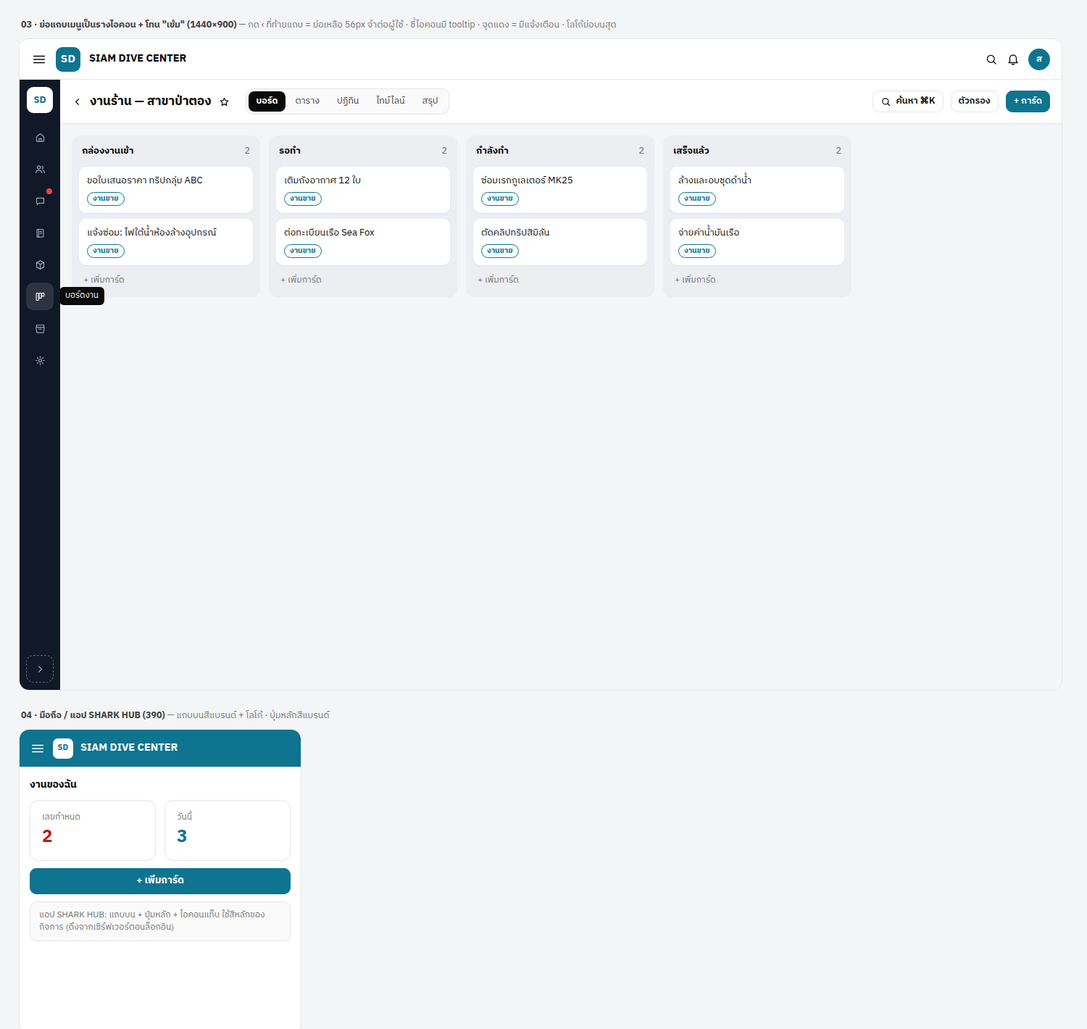
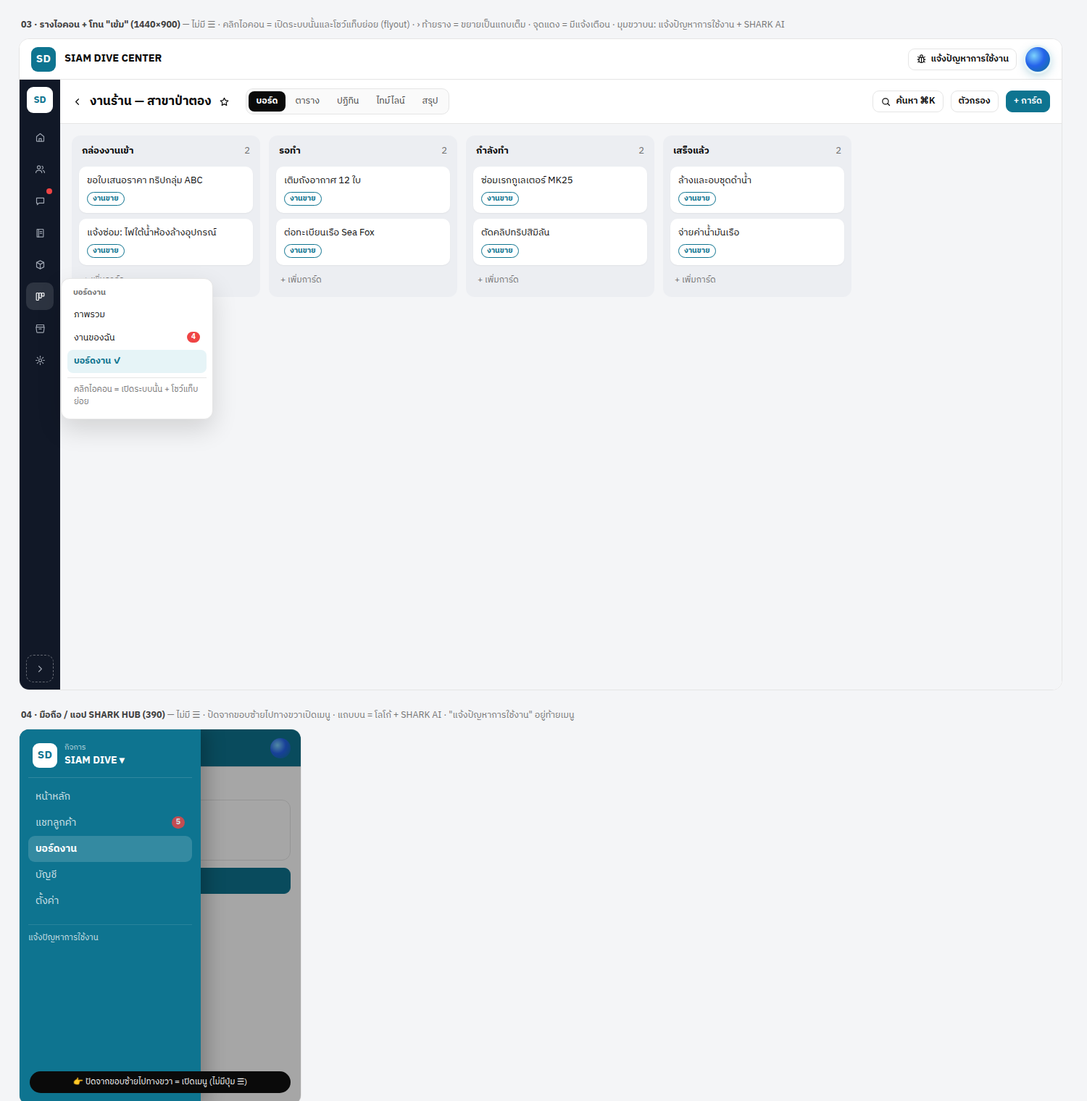
design(branding): รอบ 2 ตามเจ้าของ — มุมขวาบน 2 ปุ่ม (แจ้งปัญหา + SHARK AI) · ไม่มี ☰ · รางไอคอนคลิกเปิดระบบ+แท็บย่อย · มือถือปัดขวาเปิดเมนู

diff --git a/ledger/design-branding/03-rail-dark-mobile.html b/ledger/design-branding/03-rail-dark-mobile.html
@@ -13,6 +13,7 @@ svg.i.sm{width:15px;height:15px;stroke-width:1.9}svg.i.lg{width:22px;height:22px
 .top .sp{flex:1}.top .brand{font-size:14.5px;font-weight:700;color:var(--ink)}
 .logo{width:34px;height:34px;border-radius:9px;display:grid;place-items:center;background:var(--brand);color:var(--brand-fg);font-weight:800;font-size:15px;letter-spacing:.02em;overflow:hidden}
 .logo.img{background:#fff;border:1px solid var(--line)}
+.orb{width:34px;height:34px;border-radius:50%;flex:none;background:radial-gradient(circle at 35% 35%,#7dd3fc 0,#2563eb 45%,#0e7490 100%);box-shadow:0 0 0 3px #e6f4f7,0 4px 14px rgba(14,116,144,.35)}
 .av{width:30px;height:30px;border-radius:50%;background:var(--brand);color:var(--brand-fg);display:grid;place-items:center;font-size:12.5px;font-weight:700}
 .appbody{display:flex;align-items:stretch;min-height:0;flex:1}
 .nav{width:288px;flex:none;background:var(--nav-bg);color:var(--nav-fg);padding:14px 12px;display:flex;flex-direction:column;gap:2px;border-right:1px solid rgba(0,0,0,.06)}
@@ -72,5 +73,18 @@ h1{font-size:20px;font-weight:700}.sub{font-size:13px;color:var(--mut)}
 .tabs i{font-style:normal;padding:5px 11px;border-radius:8px;font-size:12.5px;color:var(--ink2)}.tabs i.on{background:var(--ink);color:#fff;font-weight:700}
 .mtop{height:52px;display:flex;align-items:center;gap:10px;padding:0 14px;border-bottom:1px solid var(--line);background:var(--nav-bg);color:var(--nav-fg)}
 .mtop .brand{font-weight:700;font-size:14.5px}
-</style></head><body><svg style="display:none"><symbol id="i-menu" viewBox="0 0 24 24"><path d="M4 7h16M4 12h16M4 17h16"/></symbol><symbol id="i-search" viewBox="0 0 24 24"><circle cx="11" cy="11" r="6.5"/><path d="m16 16 4 4"/></symbol><symbol id="i-home" viewBox="0 0 24 24"><path d="M4 10.5 12 4l8 6.5V20a1 1 0 0 1-1 1H5a1 1 0 0 1-1-1Z"/><path d="M9.5 21v-6h5v6"/></symbol><symbol id="i-users" viewBox="0 0 24 24"><circle cx="9" cy="8" r="3.4"/><path d="M2.5 20c0-3.6 2.9-5.5 6.5-5.5s6.5 1.9 6.5 5.5M16 5.4a3.4 3.4 0 0 1 0 6.4M18 14.8c2.2.6 3.5 2.3 3.5 5.2"/></symbol><symbol id="i-box" viewBox="0 0 24 24"><path d="M12 3 4 7v10l8 4 8-4V7Z"/><path d="m4 7 8 4 8-4M12 11v10"/></symbol><symbol id="i-book" viewBox="0 0 24 24"><path d="M5 4h13a1 1 0 0 1 1 1v15a1 1 0 0 1-1 1H5Z"/><path d="M8.5 4v17M11.5 9h4M11.5 13h4"/></symbol><symbol id="i-shop" viewBox="0 0 24 24"><path d="M4 9V4h16v5"/><path d="M3 9h18l-1.4 11a1 1 0 0 1-1 .9H5.4a1 1 0 0 1-1-.9Z"/><path d="M9.5 13h5"/></symbol><symbol id="i-mail" viewBox="0 0 24 24"><rect x="3" y="5.5" width="18" height="13" rx="2.2"/><path d="m3.6 7 8.4 6 8.4-6"/></symbol><symbol id="i-chat" viewBox="0 0 24 24"><path d="M4 5.5h16v11H9.5L5.5 20v-3.5H4Z"/></symbol><symbol id="i-bell" viewBox="0 0 24 24"><path d="M18 15.5V10a6 6 0 1 0-12 0v5.5L4 18h16Z"/><path d="M10 21h4"/></symbol><symbol id="i-gear" viewBox="0 0 24 24"><circle cx="12" cy="12" r="3.2"/><path d="M12 2.5v3M12 18.5v3M2.5 12h3M18.5 12h3M5.3 5.3l2.1 2.1M16.6 16.6l2.1 2.1M5.3 18.7l2.1-2.1M16.6 7.4l2.1-2.1"/></symbol><symbol id="i-kan" viewBox="0 0 24 24"><rect x="3.5" y="4" width="5" height="16" rx="1.2"/><rect x="9.5" y="4" width="5" height="11" rx="1.2"/><rect x="15.5" y="4" width="5" height="7" rx="1.2"/></symbol><symbol id="i-chev" viewBox="0 0 24 24"><path d="m9 6 6 6-6 6"/></symbol><symbol id="i-chevl" viewBox="0 0 24 24"><path d="m15 6-6 6 6 6"/></symbol><symbol id="i-up" viewBox="0 0 24 24"><path d="M12 17V5M7.5 9.5 12 5l4.5 4.5M4 17v3h16v-3"/></symbol><symbol id="i-check" viewBox="0 0 24 24"><path d="m5 12.5 4.5 4.5L19 7.5"/></symbol><symbol id="i-star" viewBox="0 0 24 24"><path d="m12 3.6 2.6 5.4 5.9.8-4.3 4.1 1 5.9-5.2-2.8-5.2 2.8 1-5.9L3.5 9.8l5.9-.8Z"/></symbol></svg><div class="wrap"><div><p class="cap">03 · ย่อแถบเมนูเป็นรางไอคอน + โทน "เข้ม" (1440×900) <span>— กด ‹ ที่ท้ายแถบ = ย่อเหลือ 56px จำต่อผู้ใช้ · ชี้ไอคอนมี tooltip · จุดแดง = มีแจ้งเตือน · โลโก้ย่อบนสุด</span></p><div class="frame" style="height:900px"><div class="top"><svg class="i lg"><use href="#i-menu"/></svg><div class="logo">SD</div><span class="brand">SIAM DIVE CENTER</span><span class="sp"></span><svg class="i"><use href="#i-search"/></svg><svg class="i"><use href="#i-bell"/></svg><div class="av">ส</div></div><div class="appbody"><div class="rail dark" style="--nav-bg:#111827;--nav-fg:#f9fafb;--nav-fg2:#9ca3af;--nav-on:rgba(255,255,255,.12)"><div class="lg">SD</div><div class="ri "><svg class="i sm"><use href="#i-home"/></svg></div><div class="ri "><svg class="i sm"><use href="#i-users"/></svg></div><div class="ri "><svg class="i sm"><use href="#i-chat"/></svg><span style=position:absolute;top:2px;right:2px;width:8px;height:8px;border-radius:50%;background:#ef4444></span></div><div class="ri "><svg class="i sm"><use href="#i-book"/></svg></div><div class="ri "><svg class="i sm"><use href="#i-box"/></svg></div><div class="ri on"><svg class="i sm"><use href="#i-kan"/></svg><span class=tip>บอร์ดงาน</span></div><div class="ri "><svg class="i sm"><use href="#i-shop"/></svg></div><div class="ri "><svg class="i sm"><use href="#i-gear"/></svg></div><div class="exp"><svg class="i sm"><use href="#i-chev"/></svg></div></div><div class="mod"><div class="bh"><svg class="i sm"><use href="#i-chevl"/></svg><h2>งานร้าน — สาขาป่าตอง</h2><svg class="i sm"><use href="#i-star"/></svg><div class="tabs"><i class="on">บอร์ด</i><i>ตาราง</i><i>ปฏิทิน</i><i>ไทม์ไลน์</i><i>สรุป</i></div><span style="flex:1"></span><span class="btn sm"><svg class="i sm"><use href="#i-search"/></svg> ค้นหา ⌘K</span><span class="btn sm">ตัวกรอง</span><span class="btn p sm">+ การ์ด</span></div><div class="kb"><div class="kl"><h4>กล่องงานเข้า<span style="color:var(--mut);font-weight:400">2</span></h4><div class="kc">ขอใบเสนอราคา ทริปกลุ่ม ABC<br><span class="tg2" style="color:var(--brand);border-color:var(--brand)">งานขาย</span></div><div class="kc">แจ้งซ่อม: ไฟใต้น้ำห้องล้างอุปกรณ์<br><span class="tg2" style="color:var(--brand);border-color:var(--brand)">งานขาย</span></div><div style="font-size:12px;color:var(--mut);padding:4px 6px">+ เพิ่มการ์ด</div></div><div class="kl"><h4>รอทำ<span style="color:var(--mut);font-weight:400">2</span></h4><div class="kc">เติมถังอากาศ 12 ใบ<br><span class="tg2" style="color:var(--brand);border-color:var(--brand)">งานขาย</span></div><div class="kc">ต่อทะเบียนเรือ Sea Fox<br><span class="tg2" style="color:var(--brand);border-color:var(--brand)">งานขาย</span></div><div style="font-size:12px;color:var(--mut);padding:4px 6px">+ เพิ่มการ์ด</div></div><div class="kl"><h4>กำลังทำ<span style="color:var(--mut);font-weight:400">2</span></h4><div class="kc">ซ่อมเรกกูเลเตอร์ MK25<br><span class="tg2" style="color:var(--brand);border-color:var(--brand)">งานขาย</span></div><div class="kc">ตัดคลิปทริปสิมิลัน<br><span class="tg2" style="color:var(--brand);border-color:var(--brand)">งานขาย</span></div><div style="font-size:12px;color:var(--mut);padding:4px 6px">+ เพิ่มการ์ด</div></div><div class="kl"><h4>เสร็จแล้ว<span style="color:var(--mut);font-weight:400">2</span></h4><div class="kc">ล้างและอบชุดดำน้ำ<br><span class="tg2" style="color:var(--brand);border-color:var(--brand)">งานขาย</span></div><div class="kc">จ่ายค่าน้ำมันเรือ<br><span class="tg2" style="color:var(--brand);border-color:var(--brand)">งานขาย</span></div><div style="font-size:12px;color:var(--mut);padding:4px 6px">+ เพิ่มการ์ด</div></div></div></div></div></div></div>
-<div><p class="cap">04 · มือถือ / แอป SHARK HUB (390) <span>— แถบบนสีแบรนด์ + โลโก้ · ปุ่มหลักสีแบรนด์</span></p><div class="frame m" style="height:420px"><div class="mtop"><svg class="i lg"><use href="#i-menu"/></svg><div class="logo" style="width:28px;height:28px;font-size:11px;border-radius:7px;background:#fff;color:var(--brand)">SD</div><span class="brand">SIAM DIVE CENTER</span></div><div style="padding:14px;display:flex;flex-direction:column;gap:10px"><div style="font-weight:700">งานของฉัน</div><div class="g4" style="grid-template-columns:1fr 1fr"><div class="stat"><div class="l">เลยกำหนด</div><div class="v" style="color:#b91c1c">2</div></div><div class="stat"><div class="l">วันนี้</div><div class="v" style="color:var(--brand)">3</div></div></div><span class="btn p" style="justify-content:center">+ เพิ่มการ์ด</span><div class="note">แอป SHARK HUB: แถบบน + ปุ่มหลัก + ไอคอนแท็บ ใช้สีหลักของกิจการ (ดึงจากเซิร์ฟเวอร์ตอนล็อกอิน)</div></div></div></div></div></body></html>
+</style></head><body><svg style="display:none"><symbol id="i-bug" viewBox="0 0 24 24"><path d="M9 8V6a3 3 0 0 1 6 0v2"/><rect x="6.5" y="8" width="11" height="12" rx="5.5"/><path d="M3.5 13h3M17.5 13h3M4.5 19l2.5-2M19.5 19 17 17M4.5 7l2.5 2M19.5 7 17 9M12 8v12"/></symbol><symbol id="i-menu" viewBox="0 0 24 24"><path d="M4 7h16M4 12h16M4 17h16"/></symbol><symbol id="i-search" viewBox="0 0 24 24"><circle cx="11" cy="11" r="6.5"/><path d="m16 16 4 4"/></symbol><symbol id="i-home" viewBox="0 0 24 24"><path d="M4 10.5 12 4l8 6.5V20a1 1 0 0 1-1 1H5a1 1 0 0 1-1-1Z"/><path d="M9.5 21v-6h5v6"/></symbol><symbol id="i-users" viewBox="0 0 24 24"><circle cx="9" cy="8" r="3.4"/><path d="M2.5 20c0-3.6 2.9-5.5 6.5-5.5s6.5 1.9 6.5 5.5M16 5.4a3.4 3.4 0 0 1 0 6.4M18 14.8c2.2.6 3.5 2.3 3.5 5.2"/></symbol><symbol id="i-box" viewBox="0 0 24 24"><path d="M12 3 4 7v10l8 4 8-4V7Z"/><path d="m4 7 8 4 8-4M12 11v10"/></symbol><symbol id="i-book" viewBox="0 0 24 24"><path d="M5 4h13a1 1 0 0 1 1 1v15a1 1 0 0 1-1 1H5Z"/><path d="M8.5 4v17M11.5 9h4M11.5 13h4"/></symbol><symbol id="i-shop" viewBox="0 0 24 24"><path d="M4 9V4h16v5"/><path d="M3 9h18l-1.4 11a1 1 0 0 1-1 .9H5.4a1 1 0 0 1-1-.9Z"/><path d="M9.5 13h5"/></symbol><symbol id="i-mail" viewBox="0 0 24 24"><rect x="3" y="5.5" width="18" height="13" rx="2.2"/><path d="m3.6 7 8.4 6 8.4-6"/></symbol><symbol id="i-chat" viewBox="0 0 24 24"><path d="M4 5.5h16v11H9.5L5.5 20v-3.5H4Z"/></symbol><symbol id="i-bell" viewBox="0 0 24 24"><path d="M18 15.5V10a6 6 0 1 0-12 0v5.5L4 18h16Z"/><path d="M10 21h4"/></symbol><symbol id="i-gear" viewBox="0 0 24 24"><circle cx="12" cy="12" r="3.2"/><path d="M12 2.5v3M12 18.5v3M2.5 12h3M18.5 12h3M5.3 5.3l2.1 2.1M16.6 16.6l2.1 2.1M5.3 18.7l2.1-2.1M16.6 7.4l2.1-2.1"/></symbol><symbol id="i-kan" viewBox="0 0 24 24"><rect x="3.5" y="4" width="5" height="16" rx="1.2"/><rect x="9.5" y="4" width="5" height="11" rx="1.2"/><rect x="15.5" y="4" width="5" height="7" rx="1.2"/></symbol><symbol id="i-chev" viewBox="0 0 24 24"><path d="m9 6 6 6-6 6"/></symbol><symbol id="i-chevl" viewBox="0 0 24 24"><path d="m15 6-6 6 6 6"/></symbol><symbol id="i-up" viewBox="0 0 24 24"><path d="M12 17V5M7.5 9.5 12 5l4.5 4.5M4 17v3h16v-3"/></symbol><symbol id="i-check" viewBox="0 0 24 24"><path d="m5 12.5 4.5 4.5L19 7.5"/></symbol><symbol id="i-star" viewBox="0 0 24 24"><path d="m12 3.6 2.6 5.4 5.9.8-4.3 4.1 1 5.9-5.2-2.8-5.2 2.8 1-5.9L3.5 9.8l5.9-.8Z"/></symbol></svg><div class="wrap"><div><p class="cap">03 · รางไอคอน + โทน "เข้ม" (1440×900) <span>— ไม่มี ☰ · คลิกไอคอน = เปิดระบบนั้นและโชว์แท็บย่อย (flyout) · › ท้ายราง = ขยายเป็นแถบเต็ม · จุดแดง = มีแจ้งเตือน · มุมขวาบน: แจ้งปัญหาการใช้งาน + SHARK AI</span></p><div class="frame" style="height:900px"><div class="top"><div class="logo">SD</div><span class="brand">SIAM DIVE CENTER</span><span class="sp"></span>
+<span class="btn sm" style="gap:6px"><svg class="i sm"><use href="#i-bug"/></svg> แจ้งปัญหาการใช้งาน</span>
+<span class="orb" title="SHARK AI"></span></div><div class="appbody"><div class="rail dark" style="--nav-bg:#111827;--nav-fg:#f9fafb;--nav-fg2:#9ca3af;--nav-on:rgba(255,255,255,.12)"><div class="lg">SD</div><div class="ri "><svg class="i sm"><use href="#i-home"/></svg></div><div class="ri "><svg class="i sm"><use href="#i-users"/></svg></div><div class="ri "><svg class="i sm"><use href="#i-chat"/></svg><span style=position:absolute;top:2px;right:2px;width:8px;height:8px;border-radius:50%;background:#ef4444></span></div><div class="ri "><svg class="i sm"><use href="#i-book"/></svg></div><div class="ri "><svg class="i sm"><use href="#i-box"/></svg></div><div class="ri on"><svg class="i sm"><use href="#i-kan"/></svg><div style="position:absolute;left:48px;top:-6px;width:210px;background:#fff;color:#0a0a0a;border:1px solid #e5e5e5;border-radius:12px;box-shadow:0 14px 34px rgba(10,10,10,.14);padding:8px;z-index:20;text-align:left">
+<div style="font-size:11px;color:#737373;padding:4px 8px 6px;font-weight:700">บอร์ดงาน</div>
+<div style="padding:7px 9px;border-radius:8px;font-size:12.5px">ภาพรวม</div>
+<div style="padding:7px 9px;border-radius:8px;font-size:12.5px">งานของฉัน <span style="float:right;background:#ef4444;color:#fff;font-size:10px;font-weight:700;border-radius:99px;padding:0 6px">4</span></div>
+<div style="padding:7px 9px;border-radius:8px;font-size:12.5px;background:#e6f4f7;color:#0E7490;font-weight:700">บอร์ดงาน ✓</div>
+<div style="border-top:1px solid #e5e5e5;margin:6px 0 2px"></div><div style="padding:6px 9px;font-size:11.5px;color:#737373">คลิกไอคอน = เปิดระบบนั้น + โชว์แท็บย่อย</div></div></div><div class="ri "><svg class="i sm"><use href="#i-shop"/></svg></div><div class="ri "><svg class="i sm"><use href="#i-gear"/></svg></div><div class="exp"><svg class="i sm"><use href="#i-chev"/></svg></div></div><div class="mod"><div class="bh"><svg class="i sm"><use href="#i-chevl"/></svg><h2>งานร้าน — สาขาป่าตอง</h2><svg class="i sm"><use href="#i-star"/></svg><div class="tabs"><i class="on">บอร์ด</i><i>ตาราง</i><i>ปฏิทิน</i><i>ไทม์ไลน์</i><i>สรุป</i></div><span style="flex:1"></span><span class="btn sm"><svg class="i sm"><use href="#i-search"/></svg> ค้นหา ⌘K</span><span class="btn sm">ตัวกรอง</span><span class="btn p sm">+ การ์ด</span></div><div class="kb"><div class="kl"><h4>กล่องงานเข้า<span style="color:var(--mut);font-weight:400">2</span></h4><div class="kc">ขอใบเสนอราคา ทริปกลุ่ม ABC<br><span class="tg2" style="color:var(--brand);border-color:var(--brand)">งานขาย</span></div><div class="kc">แจ้งซ่อม: ไฟใต้น้ำห้องล้างอุปกรณ์<br><span class="tg2" style="color:var(--brand);border-color:var(--brand)">งานขาย</span></div><div style="font-size:12px;color:var(--mut);padding:4px 6px">+ เพิ่มการ์ด</div></div><div class="kl"><h4>รอทำ<span style="color:var(--mut);font-weight:400">2</span></h4><div class="kc">เติมถังอากาศ 12 ใบ<br><span class="tg2" style="color:var(--brand);border-color:var(--brand)">งานขาย</span></div><div class="kc">ต่อทะเบียนเรือ Sea Fox<br><span class="tg2" style="color:var(--brand);border-color:var(--brand)">งานขาย</span></div><div style="font-size:12px;color:var(--mut);padding:4px 6px">+ เพิ่มการ์ด</div></div><div class="kl"><h4>กำลังทำ<span style="color:var(--mut);font-weight:400">2</span></h4><div class="kc">ซ่อมเรกกูเลเตอร์ MK25<br><span class="tg2" style="color:var(--brand);border-color:var(--brand)">งานขาย</span></div><div class="kc">ตัดคลิปทริปสิมิลัน<br><span class="tg2" style="color:var(--brand);border-color:var(--brand)">งานขาย</span></div><div style="font-size:12px;color:var(--mut);padding:4px 6px">+ เพิ่มการ์ด</div></div><div class="kl"><h4>เสร็จแล้ว<span style="color:var(--mut);font-weight:400">2</span></h4><div class="kc">ล้างและอบชุดดำน้ำ<br><span class="tg2" style="color:var(--brand);border-color:var(--brand)">งานขาย</span></div><div class="kc">จ่ายค่าน้ำมันเรือ<br><span class="tg2" style="color:var(--brand);border-color:var(--brand)">งานขาย</span></div><div style="font-size:12px;color:var(--mut);padding:4px 6px">+ เพิ่มการ์ด</div></div></div></div></div></div></div>
+<div><p class="cap">04 · มือถือ / แอป SHARK HUB (390) <span>— ไม่มี ☰ · ปัดจากขอบซ้ายไปทางขวาเปิดเมนู · แถบบน = โลโก้ + SHARK AI · "แจ้งปัญหาการใช้งาน" อยู่ท้ายเมนู</span></p><div class="frame m" style="height:520px;position:relative"><div class="mtop"><div class="logo" style="width:28px;height:28px;font-size:11px;border-radius:7px;background:#fff;color:var(--brand)">SD</div><span class="brand">SIAM DIVE CENTER</span><span class="sp" style="flex:1"></span><span class="orb" style="width:28px;height:28px;box-shadow:none"></span></div>
+<div style="padding:14px;display:flex;flex-direction:column;gap:10px"><div style="font-weight:700">งานของฉัน</div><div class="g4" style="grid-template-columns:1fr 1fr"><div class="stat"><div class="l">เลยกำหนด</div><div class="v" style="color:#b91c1c">2</div></div><div class="stat"><div class="l">วันนี้</div><div class="v" style="color:var(--brand)">3</div></div></div><span class="btn p" style="justify-content:center">+ เพิ่มการ์ด</span></div>
+<div style="position:absolute;inset:0;background:rgba(0,0,0,.35)"></div>
+<div style="position:absolute;left:0;top:0;bottom:0;width:250px;background:var(--nav-bg);color:var(--nav-fg);padding:14px 12px;box-shadow:8px 0 24px rgba(0,0,0,.25)"><div class="ten" style="display:flex;gap:10px;align-items:center;padding:4px 6px 12px;border-bottom:1px solid rgba(255,255,255,.14);margin-bottom:8px"><div class="logo" style="background:#fff;color:var(--brand)">SD</div><div><div style="font-size:10.5px;opacity:.7">กิจการ</div><div style="font-weight:700">SIAM DIVE ▾</div></div></div>
+<div class="it" style="display:flex;gap:10px;align-items:center;height:36px;padding:0 10px;opacity:.8">หน้าหลัก</div><div class="it" style="display:flex;gap:10px;align-items:center;height:36px;padding:0 10px;opacity:.8">แชทลูกค้า <span class="bd" style="margin-left:auto;background:#ef4444;font-size:10.5px;font-weight:700;border-radius:99px;padding:1px 6px">5</span></div><div class="it on" style="display:flex;gap:10px;align-items:center;height:36px;padding:0 10px;background:rgba(255,255,255,.16);border-radius:9px;font-weight:700">บอร์ดงาน</div><div class="it" style="display:flex;gap:10px;align-items:center;height:36px;padding:0 10px;opacity:.8">บัญชี</div><div class="it" style="display:flex;gap:10px;align-items:center;height:36px;padding:0 10px;opacity:.8">ตั้งค่า</div>
+<div style="margin-top:14px;font-size:11.5px;opacity:.8;border-top:1px solid rgba(255,255,255,.14);padding-top:10px">แจ้งปัญหาการใช้งาน</div></div>
+<div style="position:absolute;left:14px;bottom:16px;right:14px;display:flex;align-items:center;justify-content:center;gap:6px;background:#0a0a0a;color:#fff;font-size:11.5px;padding:7px 10px;border-radius:99px;z-index:5">👉 ปัดจากขอบซ้ายไปทางขวา = เปิดเมนู (ไม่มีปุ่ม ☰)</div></div><span class="btn p" style="justify-content:center">+ เพิ่มการ์ด</span><div class="note">แอป SHARK HUB: แถบบน + ปุ่มหลัก + ไอคอนแท็บ ใช้สีหลักของกิจการ (ดึงจากเซิร์ฟเวอร์ตอนล็อกอิน)</div></div></div></div></div></body></html>

diff --git a/ledger/design-branding/02-shell-brand.html b/ledger/design-branding/02-shell-brand.html
@@ -13,6 +13,7 @@ svg.i.sm{width:15px;height:15px;stroke-width:1.9}svg.i.lg{width:22px;height:22px
 .top .sp{flex:1}.top .brand{font-size:14.5px;font-weight:700;color:var(--ink)}
 .logo{width:34px;height:34px;border-radius:9px;display:grid;place-items:center;background:var(--brand);color:var(--brand-fg);font-weight:800;font-size:15px;letter-spacing:.02em;overflow:hidden}
 .logo.img{background:#fff;border:1px solid var(--line)}
+.orb{width:34px;height:34px;border-radius:50%;flex:none;background:radial-gradient(circle at 35% 35%,#7dd3fc 0,#2563eb 45%,#0e7490 100%);box-shadow:0 0 0 3px #e6f4f7,0 4px 14px rgba(14,116,144,.35)}
 .av{width:30px;height:30px;border-radius:50%;background:var(--brand);color:var(--brand-fg);display:grid;place-items:center;font-size:12.5px;font-weight:700}
 .appbody{display:flex;align-items:stretch;min-height:0;flex:1}
 .nav{width:288px;flex:none;background:var(--nav-bg);color:var(--nav-fg);padding:14px 12px;display:flex;flex-direction:column;gap:2px;border-right:1px solid rgba(0,0,0,.06)}
@@ -72,5 +73,7 @@ h1{font-size:20px;font-weight:700}.sub{font-size:13px;color:var(--mut)}
 .tabs i{font-style:normal;padding:5px 11px;border-radius:8px;font-size:12.5px;color:var(--ink2)}.tabs i.on{background:var(--ink);color:#fff;font-weight:700}
 .mtop{height:52px;display:flex;align-items:center;gap:10px;padding:0 14px;border-bottom:1px solid var(--line);background:var(--nav-bg);color:var(--nav-fg)}
 .mtop .brand{font-weight:700;font-size:14.5px}
-</style></head><body><svg style="display:none"><symbol id="i-menu" viewBox="0 0 24 24"><path d="M4 7h16M4 12h16M4 17h16"/></symbol><symbol id="i-search" viewBox="0 0 24 24"><circle cx="11" cy="11" r="6.5"/><path d="m16 16 4 4"/></symbol><symbol id="i-home" viewBox="0 0 24 24"><path d="M4 10.5 12 4l8 6.5V20a1 1 0 0 1-1 1H5a1 1 0 0 1-1-1Z"/><path d="M9.5 21v-6h5v6"/></symbol><symbol id="i-users" viewBox="0 0 24 24"><circle cx="9" cy="8" r="3.4"/><path d="M2.5 20c0-3.6 2.9-5.5 6.5-5.5s6.5 1.9 6.5 5.5M16 5.4a3.4 3.4 0 0 1 0 6.4M18 14.8c2.2.6 3.5 2.3 3.5 5.2"/></symbol><symbol id="i-box" viewBox="0 0 24 24"><path d="M12 3 4 7v10l8 4 8-4V7Z"/><path d="m4 7 8 4 8-4M12 11v10"/></symbol><symbol id="i-book" viewBox="0 0 24 24"><path d="M5 4h13a1 1 0 0 1 1 1v15a1 1 0 0 1-1 1H5Z"/><path d="M8.5 4v17M11.5 9h4M11.5 13h4"/></symbol><symbol id="i-shop" viewBox="0 0 24 24"><path d="M4 9V4h16v5"/><path d="M3 9h18l-1.4 11a1 1 0 0 1-1 .9H5.4a1 1 0 0 1-1-.9Z"/><path d="M9.5 13h5"/></symbol><symbol id="i-mail" viewBox="0 0 24 24"><rect x="3" y="5.5" width="18" height="13" rx="2.2"/><path d="m3.6 7 8.4 6 8.4-6"/></symbol><symbol id="i-chat" viewBox="0 0 24 24"><path d="M4 5.5h16v11H9.5L5.5 20v-3.5H4Z"/></symbol><symbol id="i-bell" viewBox="0 0 24 24"><path d="M18 15.5V10a6 6 0 1 0-12 0v5.5L4 18h16Z"/><path d="M10 21h4"/></symbol><symbol id="i-gear" viewBox="0 0 24 24"><circle cx="12" cy="12" r="3.2"/><path d="M12 2.5v3M12 18.5v3M2.5 12h3M18.5 12h3M5.3 5.3l2.1 2.1M16.6 16.6l2.1 2.1M5.3 18.7l2.1-2.1M16.6 7.4l2.1-2.1"/></symbol><symbol id="i-kan" viewBox="0 0 24 24"><rect x="3.5" y="4" width="5" height="16" rx="1.2"/><rect x="9.5" y="4" width="5" height="11" rx="1.2"/><rect x="15.5" y="4" width="5" height="7" rx="1.2"/></symbol><symbol id="i-chev" viewBox="0 0 24 24"><path d="m9 6 6 6-6 6"/></symbol><symbol id="i-chevl" viewBox="0 0 24 24"><path d="m15 6-6 6 6 6"/></symbol><symbol id="i-up" viewBox="0 0 24 24"><path d="M12 17V5M7.5 9.5 12 5l4.5 4.5M4 17v3h16v-3"/></symbol><symbol id="i-check" viewBox="0 0 24 24"><path d="m5 12.5 4.5 4.5L19 7.5"/></symbol><symbol id="i-star" viewBox="0 0 24 24"><path d="m12 3.6 2.6 5.4 5.9.8-4.3 4.1 1 5.9-5.2-2.8-5.2 2.8 1-5.9L3.5 9.8l5.9-.8Z"/></symbol></svg><div class="wrap"><div><p class="cap">02 · โครงแอปเมื่อใช้ธีม "สีหลักของกิจการ" (1440×900) <span>— โลโก้มุมบนซ้าย · แถบเมนูซ้ายสีแบรนด์ ตัวอักษรขาวอัตโนมัติ · ปุ่มหลัก/ป้าย/รายการที่เลือกใช้สีเดียวกัน</span></p><div class="frame" style="height:900px"><div class="top"><svg class="i lg"><use href="#i-menu"/></svg><div class="logo">SD</div><span class="brand">SIAM DIVE CENTER</span><span class="sp"></span><svg class="i"><use href="#i-search"/></svg><svg class="i"><use href="#i-bell"/></svg><div class="av">ส</div></div><div class="appbody"><div class="nav "><div class="ten"><div class="logo">SD</div><div><div class="t1">กิจการ</div><div class="t2">SIAM DIVE CENTER ▾</div></div></div>
+</style></head><body><svg style="display:none"><symbol id="i-bug" viewBox="0 0 24 24"><path d="M9 8V6a3 3 0 0 1 6 0v2"/><rect x="6.5" y="8" width="11" height="12" rx="5.5"/><path d="M3.5 13h3M17.5 13h3M4.5 19l2.5-2M19.5 19 17 17M4.5 7l2.5 2M19.5 7 17 9M12 8v12"/></symbol><symbol id="i-menu" viewBox="0 0 24 24"><path d="M4 7h16M4 12h16M4 17h16"/></symbol><symbol id="i-search" viewBox="0 0 24 24"><circle cx="11" cy="11" r="6.5"/><path d="m16 16 4 4"/></symbol><symbol id="i-home" viewBox="0 0 24 24"><path d="M4 10.5 12 4l8 6.5V20a1 1 0 0 1-1 1H5a1 1 0 0 1-1-1Z"/><path d="M9.5 21v-6h5v6"/></symbol><symbol id="i-users" viewBox="0 0 24 24"><circle cx="9" cy="8" r="3.4"/><path d="M2.5 20c0-3.6 2.9-5.5 6.5-5.5s6.5 1.9 6.5 5.5M16 5.4a3.4 3.4 0 0 1 0 6.4M18 14.8c2.2.6 3.5 2.3 3.5 5.2"/></symbol><symbol id="i-box" viewBox="0 0 24 24"><path d="M12 3 4 7v10l8 4 8-4V7Z"/><path d="m4 7 8 4 8-4M12 11v10"/></symbol><symbol id="i-book" viewBox="0 0 24 24"><path d="M5 4h13a1 1 0 0 1 1 1v15a1 1 0 0 1-1 1H5Z"/><path d="M8.5 4v17M11.5 9h4M11.5 13h4"/></symbol><symbol id="i-shop" viewBox="0 0 24 24"><path d="M4 9V4h16v5"/><path d="M3 9h18l-1.4 11a1 1 0 0 1-1 .9H5.4a1 1 0 0 1-1-.9Z"/><path d="M9.5 13h5"/></symbol><symbol id="i-mail" viewBox="0 0 24 24"><rect x="3" y="5.5" width="18" height="13" rx="2.2"/><path d="m3.6 7 8.4 6 8.4-6"/></symbol><symbol id="i-chat" viewBox="0 0 24 24"><path d="M4 5.5h16v11H9.5L5.5 20v-3.5H4Z"/></symbol><symbol id="i-bell" viewBox="0 0 24 24"><path d="M18 15.5V10a6 6 0 1 0-12 0v5.5L4 18h16Z"/><path d="M10 21h4"/></symbol><symbol id="i-gear" viewBox="0 0 24 24"><circle cx="12" cy="12" r="3.2"/><path d="M12 2.5v3M12 18.5v3M2.5 12h3M18.5 12h3M5.3 5.3l2.1 2.1M16.6 16.6l2.1 2.1M5.3 18.7l2.1-2.1M16.6 7.4l2.1-2.1"/></symbol><symbol id="i-kan" viewBox="0 0 24 24"><rect x="3.5" y="4" width="5" height="16" rx="1.2"/><rect x="9.5" y="4" width="5" height="11" rx="1.2"/><rect x="15.5" y="4" width="5" height="7" rx="1.2"/></symbol><symbol id="i-chev" viewBox="0 0 24 24"><path d="m9 6 6 6-6 6"/></symbol><symbol id="i-chevl" viewBox="0 0 24 24"><path d="m15 6-6 6 6 6"/></symbol><symbol id="i-up" viewBox="0 0 24 24"><path d="M12 17V5M7.5 9.5 12 5l4.5 4.5M4 17v3h16v-3"/></symbol><symbol id="i-check" viewBox="0 0 24 24"><path d="m5 12.5 4.5 4.5L19 7.5"/></symbol><symbol id="i-star" viewBox="0 0 24 24"><path d="m12 3.6 2.6 5.4 5.9.8-4.3 4.1 1 5.9-5.2-2.8-5.2 2.8 1-5.9L3.5 9.8l5.9-.8Z"/></symbol></svg><div class="wrap"><div><p class="cap">02 · โครงแอปเมื่อใช้ธีม "สีหลักของกิจการ" (1440×900) <span>— โลโก้มุมบนซ้าย (ไม่มี ☰) · มุมขวาบนมี 2 ปุ่ม: แจ้งปัญหาการใช้งาน + SHARK AI · แถบเมนูสีแบรนด์ ตัวอักษรขาวอัตโนมัติ · ค้นหา/แจ้งเตือนอยู่ในแต่ละระบบ</span></p><div class="frame" style="height:900px"><div class="top"><div class="logo">SD</div><span class="brand">SIAM DIVE CENTER</span><span class="sp"></span>
+<span class="btn sm" style="gap:6px"><svg class="i sm"><use href="#i-bug"/></svg> แจ้งปัญหาการใช้งาน</span>
+<span class="orb" title="SHARK AI"></span></div><div class="appbody"><div class="nav "><div class="ten"><div class="logo">SD</div><div><div class="t1">กิจการ</div><div class="t2">SIAM DIVE CENTER ▾</div></div></div>
 <div class="sec">ระบบทั้งหมด</div><div class="it "><svg class="i sm"><use href="#i-home"/></svg><span>หน้าหลัก</span></div><div class="it "><svg class="i sm"><use href="#i-users"/></svg><span>พนักงาน HR</span></div><div class="it "><svg class="i sm"><use href="#i-chat"/></svg><span>แชทลูกค้า</span><span class=bd>5</span></div><div class="it "><svg class="i sm"><use href="#i-book"/></svg><span>บัญชี</span></div><div class="it "><svg class="i sm"><use href="#i-box"/></svg><span>บริการ</span></div><div class="it on"><svg class="i sm"><use href="#i-kan"/></svg><span>บอร์ดงาน</span></div><div class="it "><svg class="i sm"><use href="#i-shop"/></svg><span>คลังความรู้ (KB)</span></div><div class="it "><svg class="i sm"><use href="#i-gear"/></svg><span>ตั้งค่า</span></div><div class="cta">+ เพิ่มระบบ</div><div class="foot"><span>siamdivethailand@gmail.com</span><span>ออกจากระบบ</span></div></div><div class="mod"><div class="bh"><svg class="i sm"><use href="#i-chevl"/></svg><h2>งานร้าน — สาขาป่าตอง</h2><svg class="i sm"><use href="#i-star"/></svg><div class="tabs"><i class="on">บอร์ด</i><i>ตาราง</i><i>ปฏิทิน</i><i>ไทม์ไลน์</i><i>สรุป</i></div><span style="flex:1"></span><span class="btn sm"><svg class="i sm"><use href="#i-search"/></svg> ค้นหา ⌘K</span><span class="btn sm">ตัวกรอง</span><span class="btn p sm">+ การ์ด</span></div><div class="kb"><div class="kl"><h4>กล่องงานเข้า<span style="color:var(--mut);font-weight:400">2</span></h4><div class="kc">ขอใบเสนอราคา ทริปกลุ่ม ABC<br><span class="tg2" style="color:var(--brand);border-color:var(--brand)">งานขาย</span></div><div class="kc">แจ้งซ่อม: ไฟใต้น้ำห้องล้างอุปกรณ์<br><span class="tg2" style="color:var(--brand);border-color:var(--brand)">งานขาย</span></div><div style="font-size:12px;color:var(--mut);padding:4px 6px">+ เพิ่มการ์ด</div></div><div class="kl"><h4>รอทำ<span style="color:var(--mut);font-weight:400">2</span></h4><div class="kc">เติมถังอากาศ 12 ใบ<br><span class="tg2" style="color:var(--brand);border-color:var(--brand)">งานขาย</span></div><div class="kc">ต่อทะเบียนเรือ Sea Fox<br><span class="tg2" style="color:var(--brand);border-color:var(--brand)">งานขาย</span></div><div style="font-size:12px;color:var(--mut);padding:4px 6px">+ เพิ่มการ์ด</div></div><div class="kl"><h4>กำลังทำ<span style="color:var(--mut);font-weight:400">2</span></h4><div class="kc">ซ่อมเรกกูเลเตอร์ MK25<br><span class="tg2" style="color:var(--brand);border-color:var(--brand)">งานขาย</span></div><div class="kc">ตัดคลิปทริปสิมิลัน<br><span class="tg2" style="color:var(--brand);border-color:var(--brand)">งานขาย</span></div><div style="font-size:12px;color:var(--mut);padding:4px 6px">+ เพิ่มการ์ด</div></div><div class="kl"><h4>เสร็จแล้ว<span style="color:var(--mut);font-weight:400">2</span></h4><div class="kc">ล้างและอบชุดดำน้ำ<br><span class="tg2" style="color:var(--brand);border-color:var(--brand)">งานขาย</span></div><div class="kc">จ่ายค่าน้ำมันเรือ<br><span class="tg2" style="color:var(--brand);border-color:var(--brand)">งานขาย</span></div><div style="font-size:12px;color:var(--mut);padding:4px 6px">+ เพิ่มการ์ด</div></div></div></div></div></div></div></div></body></html>

diff --git a/ledger/design-branding/01-settings.html b/ledger/design-branding/01-settings.html
@@ -13,6 +13,7 @@ svg.i.sm{width:15px;height:15px;stroke-width:1.9}svg.i.lg{width:22px;height:22px
 .top .sp{flex:1}.top .brand{font-size:14.5px;font-weight:700;color:var(--ink)}
 .logo{width:34px;height:34px;border-radius:9px;display:grid;place-items:center;background:var(--brand);color:var(--brand-fg);font-weight:800;font-size:15px;letter-spacing:.02em;overflow:hidden}
 .logo.img{background:#fff;border:1px solid var(--line)}
+.orb{width:34px;height:34px;border-radius:50%;flex:none;background:radial-gradient(circle at 35% 35%,#7dd3fc 0,#2563eb 45%,#0e7490 100%);box-shadow:0 0 0 3px #e6f4f7,0 4px 14px rgba(14,116,144,.35)}
 .av{width:30px;height:30px;border-radius:50%;background:var(--brand);color:var(--brand-fg);display:grid;place-items:center;font-size:12.5px;font-weight:700}
 .appbody{display:flex;align-items:stretch;min-height:0;flex:1}
 .nav{width:288px;flex:none;background:var(--nav-bg);color:var(--nav-fg);padding:14px 12px;display:flex;flex-direction:column;gap:2px;border-right:1px solid rgba(0,0,0,.06)}
@@ -72,7 +73,9 @@ h1{font-size:20px;font-weight:700}.sub{font-size:13px;color:var(--mut)}
 .tabs i{font-style:normal;padding:5px 11px;border-radius:8px;font-size:12.5px;color:var(--ink2)}.tabs i.on{background:var(--ink);color:#fff;font-weight:700}
 .mtop{height:52px;display:flex;align-items:center;gap:10px;padding:0 14px;border-bottom:1px solid var(--line);background:var(--nav-bg);color:var(--nav-fg)}
 .mtop .brand{font-weight:700;font-size:14.5px}
-</style></head><body><svg style="display:none"><symbol id="i-menu" viewBox="0 0 24 24"><path d="M4 7h16M4 12h16M4 17h16"/></symbol><symbol id="i-search" viewBox="0 0 24 24"><circle cx="11" cy="11" r="6.5"/><path d="m16 16 4 4"/></symbol><symbol id="i-home" viewBox="0 0 24 24"><path d="M4 10.5 12 4l8 6.5V20a1 1 0 0 1-1 1H5a1 1 0 0 1-1-1Z"/><path d="M9.5 21v-6h5v6"/></symbol><symbol id="i-users" viewBox="0 0 24 24"><circle cx="9" cy="8" r="3.4"/><path d="M2.5 20c0-3.6 2.9-5.5 6.5-5.5s6.5 1.9 6.5 5.5M16 5.4a3.4 3.4 0 0 1 0 6.4M18 14.8c2.2.6 3.5 2.3 3.5 5.2"/></symbol><symbol id="i-box" viewBox="0 0 24 24"><path d="M12 3 4 7v10l8 4 8-4V7Z"/><path d="m4 7 8 4 8-4M12 11v10"/></symbol><symbol id="i-book" viewBox="0 0 24 24"><path d="M5 4h13a1 1 0 0 1 1 1v15a1 1 0 0 1-1 1H5Z"/><path d="M8.5 4v17M11.5 9h4M11.5 13h4"/></symbol><symbol id="i-shop" viewBox="0 0 24 24"><path d="M4 9V4h16v5"/><path d="M3 9h18l-1.4 11a1 1 0 0 1-1 .9H5.4a1 1 0 0 1-1-.9Z"/><path d="M9.5 13h5"/></symbol><symbol id="i-mail" viewBox="0 0 24 24"><rect x="3" y="5.5" width="18" height="13" rx="2.2"/><path d="m3.6 7 8.4 6 8.4-6"/></symbol><symbol id="i-chat" viewBox="0 0 24 24"><path d="M4 5.5h16v11H9.5L5.5 20v-3.5H4Z"/></symbol><symbol id="i-bell" viewBox="0 0 24 24"><path d="M18 15.5V10a6 6 0 1 0-12 0v5.5L4 18h16Z"/><path d="M10 21h4"/></symbol><symbol id="i-gear" viewBox="0 0 24 24"><circle cx="12" cy="12" r="3.2"/><path d="M12 2.5v3M12 18.5v3M2.5 12h3M18.5 12h3M5.3 5.3l2.1 2.1M16.6 16.6l2.1 2.1M5.3 18.7l2.1-2.1M16.6 7.4l2.1-2.1"/></symbol><symbol id="i-kan" viewBox="0 0 24 24"><rect x="3.5" y="4" width="5" height="16" rx="1.2"/><rect x="9.5" y="4" width="5" height="11" rx="1.2"/><rect x="15.5" y="4" width="5" height="7" rx="1.2"/></symbol><symbol id="i-chev" viewBox="0 0 24 24"><path d="m9 6 6 6-6 6"/></symbol><symbol id="i-chevl" viewBox="0 0 24 24"><path d="m15 6-6 6 6 6"/></symbol><symbol id="i-up" viewBox="0 0 24 24"><path d="M12 17V5M7.5 9.5 12 5l4.5 4.5M4 17v3h16v-3"/></symbol><symbol id="i-check" viewBox="0 0 24 24"><path d="m5 12.5 4.5 4.5L19 7.5"/></symbol><symbol id="i-star" viewBox="0 0 24 24"><path d="m12 3.6 2.6 5.4 5.9.8-4.3 4.1 1 5.9-5.2-2.8-5.2 2.8 1-5.9L3.5 9.8l5.9-.8Z"/></symbol></svg><div class="wrap"><div><p class="cap">01 · ตั้งค่า › ตราสินค้าและธีมกิจการ (เดสก์ท็อป 1440) <span>— โลโก้ · ชื่อที่แสดง · สีหลัก 8 สี+กำหนดเอง · โทนแถบเมนู 3 แบบ · ตัวอย่างสดด้านขวา</span></p><div class="frame" style="height:1060px"><div class="top"><svg class="i lg"><use href="#i-menu"/></svg><div class="logo">SD</div><span class="brand">SIAM DIVE CENTER</span><span class="sp"></span><svg class="i"><use href="#i-search"/></svg><svg class="i"><use href="#i-bell"/></svg><div class="av">ส</div></div><div class="appbody"><div class="nav light"><div class="ten"><div class="logo">SD</div><div><div class="t1">กิจการ</div><div class="t2">SIAM DIVE CENTER ▾</div></div></div>
+</style></head><body><svg style="display:none"><symbol id="i-bug" viewBox="0 0 24 24"><path d="M9 8V6a3 3 0 0 1 6 0v2"/><rect x="6.5" y="8" width="11" height="12" rx="5.5"/><path d="M3.5 13h3M17.5 13h3M4.5 19l2.5-2M19.5 19 17 17M4.5 7l2.5 2M19.5 7 17 9M12 8v12"/></symbol><symbol id="i-menu" viewBox="0 0 24 24"><path d="M4 7h16M4 12h16M4 17h16"/></symbol><symbol id="i-search" viewBox="0 0 24 24"><circle cx="11" cy="11" r="6.5"/><path d="m16 16 4 4"/></symbol><symbol id="i-home" viewBox="0 0 24 24"><path d="M4 10.5 12 4l8 6.5V20a1 1 0 0 1-1 1H5a1 1 0 0 1-1-1Z"/><path d="M9.5 21v-6h5v6"/></symbol><symbol id="i-users" viewBox="0 0 24 24"><circle cx="9" cy="8" r="3.4"/><path d="M2.5 20c0-3.6 2.9-5.5 6.5-5.5s6.5 1.9 6.5 5.5M16 5.4a3.4 3.4 0 0 1 0 6.4M18 14.8c2.2.6 3.5 2.3 3.5 5.2"/></symbol><symbol id="i-box" viewBox="0 0 24 24"><path d="M12 3 4 7v10l8 4 8-4V7Z"/><path d="m4 7 8 4 8-4M12 11v10"/></symbol><symbol id="i-book" viewBox="0 0 24 24"><path d="M5 4h13a1 1 0 0 1 1 1v15a1 1 0 0 1-1 1H5Z"/><path d="M8.5 4v17M11.5 9h4M11.5 13h4"/></symbol><symbol id="i-shop" viewBox="0 0 24 24"><path d="M4 9V4h16v5"/><path d="M3 9h18l-1.4 11a1 1 0 0 1-1 .9H5.4a1 1 0 0 1-1-.9Z"/><path d="M9.5 13h5"/></symbol><symbol id="i-mail" viewBox="0 0 24 24"><rect x="3" y="5.5" width="18" height="13" rx="2.2"/><path d="m3.6 7 8.4 6 8.4-6"/></symbol><symbol id="i-chat" viewBox="0 0 24 24"><path d="M4 5.5h16v11H9.5L5.5 20v-3.5H4Z"/></symbol><symbol id="i-bell" viewBox="0 0 24 24"><path d="M18 15.5V10a6 6 0 1 0-12 0v5.5L4 18h16Z"/><path d="M10 21h4"/></symbol><symbol id="i-gear" viewBox="0 0 24 24"><circle cx="12" cy="12" r="3.2"/><path d="M12 2.5v3M12 18.5v3M2.5 12h3M18.5 12h3M5.3 5.3l2.1 2.1M16.6 16.6l2.1 2.1M5.3 18.7l2.1-2.1M16.6 7.4l2.1-2.1"/></symbol><symbol id="i-kan" viewBox="0 0 24 24"><rect x="3.5" y="4" width="5" height="16" rx="1.2"/><rect x="9.5" y="4" width="5" height="11" rx="1.2"/><rect x="15.5" y="4" width="5" height="7" rx="1.2"/></symbol><symbol id="i-chev" viewBox="0 0 24 24"><path d="m9 6 6 6-6 6"/></symbol><symbol id="i-chevl" viewBox="0 0 24 24"><path d="m15 6-6 6 6 6"/></symbol><symbol id="i-up" viewBox="0 0 24 24"><path d="M12 17V5M7.5 9.5 12 5l4.5 4.5M4 17v3h16v-3"/></symbol><symbol id="i-check" viewBox="0 0 24 24"><path d="m5 12.5 4.5 4.5L19 7.5"/></symbol><symbol id="i-star" viewBox="0 0 24 24"><path d="m12 3.6 2.6 5.4 5.9.8-4.3 4.1 1 5.9-5.2-2.8-5.2 2.8 1-5.9L3.5 9.8l5.9-.8Z"/></symbol></svg><div class="wrap"><div><p class="cap">01 · ตั้งค่า › ตราสินค้าและธีมกิจการ (เดสก์ท็อป 1440) <span>— โลโก้ · ชื่อที่แสดง · สีหลัก 8 สี+กำหนดเอง · โทนแถบเมนู 3 แบบ · ตัวอย่างสดด้านขวา</span></p><div class="frame" style="height:1060px"><div class="top"><div class="logo">SD</div><span class="brand">SIAM DIVE CENTER</span><span class="sp"></span>
+<span class="btn sm" style="gap:6px"><svg class="i sm"><use href="#i-bug"/></svg> แจ้งปัญหาการใช้งาน</span>
+<span class="orb" title="SHARK AI"></span></div><div class="appbody"><div class="nav light"><div class="ten"><div class="logo">SD</div><div><div class="t1">กิจการ</div><div class="t2">SIAM DIVE CENTER ▾</div></div></div>
 <div class="sec">ระบบทั้งหมด</div><div class="it "><svg class="i sm"><use href="#i-home"/></svg><span>หน้าหลัก</span></div><div class="it "><svg class="i sm"><use href="#i-users"/></svg><span>พนักงาน HR</span></div><div class="it "><svg class="i sm"><use href="#i-chat"/></svg><span>แชทลูกค้า</span><span class=bd>5</span></div><div class="it "><svg class="i sm"><use href="#i-book"/></svg><span>บัญชี</span></div><div class="it "><svg class="i sm"><use href="#i-box"/></svg><span>บริการ</span></div><div class="it on"><svg class="i sm"><use href="#i-kan"/></svg><span>บอร์ดงาน</span></div><div class="it "><svg class="i sm"><use href="#i-shop"/></svg><span>คลังความรู้ (KB)</span></div><div class="it "><svg class="i sm"><use href="#i-gear"/></svg><span>ตั้งค่า</span></div><div class="cta">+ เพิ่มระบบ</div><div class="foot"><span>siamdivethailand@gmail.com</span><span>ออกจากระบบ</span></div></div><div class="mod"><div class="pg"><div><div class="sub">ตั้งค่า › ตราสินค้าและธีม</div><h1>ตราสินค้าและธีมกิจการ</h1><div class="sub">โลโก้ สีหลัก และแถบเมนูซ้าย — ใช้ทั้งในระบบ SHARK · แอปมือถือ · หน้าร้านออนไลน์ · ใบเสนอราคา/อีเมล</div></div>
 <div class="row"><div style="flex:1;display:flex;flex-direction:column;gap:14px">
 <div class="card"><h3>โลโก้กิจการ</h3><div class="d">PNG/SVG พื้นโปร่ง แนะนำ ≥ 512×512 · ไม่เกิน 2MB · ระบบทำไอคอนเล็กและ favicon ให้เอง</div>

diff --git a/ledger/DESIGN-BRANDING.md b/ledger/DESIGN-BRANDING.md
@@ -32,12 +32,12 @@
 | สวิตช์ | จำสถานะย่อ/ขยายของแต่ละคน (เปิดปริยาย) · ใช้กับหน้าร้าน/ใบเสนอราคา/อีเมล · ใช้กับแอปมือถือ |
 | ตัวอย่างสด | โครงแอปย่อขวามือ อัปเดตทันทีทุกการเปลี่ยน ยังไม่บันทึกจนกด "บันทึกและใช้กับทั้งร้าน" · ปุ่ม "ดูตัวอย่างเต็มจอ" เปิดแอปจริงพร้อม `?theme=preview` (เห็นเฉพาะคนกด) |
 
-## 5. การนำไปใช้ในโครงแอป (ภาพ 02, 03)
-- **แถบบน**: โลโก้ 34px + ชื่อที่แสดง ที่มุมซ้าย (ตำแหน่งเดิมของชื่อกิจการ) · avatar ผู้ใช้ใช้สีแบรนด์
+## 5. การนำไปใช้ในโครงแอป (ภาพ 02, 03) — ปรับตามเจ้าของ 6 ก.ย. รอบ 2
+- **แถบบน**: ซ้าย = โลโก้ 34px + ชื่อที่แสดง (**ไม่มีปุ่ม ☰ อีกต่อไป**) · ขวา = **2 ปุ่มเท่านั้น**: "แจ้งปัญหาการใช้งาน" (เปิดฟอร์มรายงานปัญหา แนบภาพหน้าจอ+หน้าที่อยู่+เวอร์ชันอัตโนมัติ → ส่งเข้าบอร์ดงานของ SHARK/Telegram เจ้าของ) และ **ไอคอน SHARK AI** (orb เปิดผู้ช่วย AI — บนเว็บ = แผง AiDock เดิม · ในแอป = จอแชท AI) · ค้นหา/แจ้งเตือน/avatar ย้ายไปอยู่ในแต่ละระบบและท้ายแถบเมนู
 - **แถบเมนูปักซ้าย (288px)**: พื้นตามโทนที่เลือก · หัวแถบ = โลโก้+ชื่อกิจการ+▾ สลับกิจการ · รายการที่เลือกเป็นพื้นโปร่งขาว 16% (โทนสี/เข้ม) หรือกรอบขาว (โทนสว่าง) · ปุ่ม "+ เพิ่มระบบ" กลับสี (ขาวบนแบรนด์ / แบรนด์บนสว่าง)
-- **รางไอคอน (56px) ใช้ได้ทุกหน้า**: ปุ่ม ‹ ท้ายแถบ = ย่อ · › บนราง = ขยาย · โลโก้ย่อ 24px บนสุด · ชี้ไอคอน 300ms ขึ้น tooltip ชื่อเมนู · จุดแดง = มีแจ้งเตือน (เช่น แชท 5) · หน้าบอร์ดงานยังบังคับรางเหมือนเดิม (K1.5) · จำสถานะต่อผู้ใช้ (`preferences.navCollapsed`)
+- **รางไอคอน (56px) ใช้ได้ทุกหน้า**: **คลิกไอคอน = เปิดระบบนั้นทันที + โชว์แท็บย่อยของระบบเป็น flyout** (เช่น บอร์ดงาน → ภาพรวม / งานของฉัน / บอร์ดงาน · ระบบที่ไม่มีแท็บย่อยเปิดหน้าตรง ๆ) · › ท้ายราง = ขยายเป็นแถบเต็ม 288px · ‹ ท้ายแถบเต็ม = ย่อกลับ · โลโก้ย่อ 24px บนสุด · จุดแดง = มีแจ้งเตือน (เช่น แชท) · หน้าบอร์ดงานยังบังคับรางเหมือนเดิม (K1.5) · จำสถานะต่อผู้ใช้ (`preferences.navCollapsed`)
 - **สีหลัก**: ตั้ง `--color-accent` (+ `-soft`, `-fg`) ที่ `<html>` ผ่าน `AppShell` จากข้อมูล tenant ⇒ ปุ่มหลัก ลิงก์ แท็บ active ชิปที่เลือก แถบเน้นของบอร์ด ใช้สีเดียวกันทั้งระบบโดยไม่ต้องไล่แก้ทีละหน้า
-- **มือถือ/แอป (ภาพ 04)**: แถบบนของเว็บบนจอแคบใช้โทนเดียวกับแถบเมนู + โลโก้ · แอป SHARK HUB รับ `{ logoUrl, brandColor, navTone }` จาก `/api/mobile/me` → จอล็อกอิน (โลโก้แทน orb ถ้ามี) · ปุ่มหลัก · หัวรายการแชท/ห้องแชท · ไอคอนแท็บ · แคชไว้ในเครื่องเพื่อไม่กะพริบตอนเปิด
+- **มือถือ/แอป (ภาพ 04)**: **ไม่มีปุ่ม ☰ — ปัดจากขอบซ้ายไปทางขวาเพื่อเปิดเมนู** (แถบเมนูเลื่อนเข้ามาทับ 250px · ปัดกลับ/แตะนอกเมนูเพื่อปิด · ท้ายเมนูมี "แจ้งปัญหาการใช้งาน") · แถบบน = โลโก้ + ชื่อ + ไอคอน SHARK AI · ในแอป SHARK HUB ใช้ท่าปัดเดียวกัน (ท่าเดิมของแอปที่เพิ่งปิดไป 6 ก.ย. จะกลับมาเปิด แต่เป็นเมนูเว็บชุดเดียว ไม่ซ้ำ 2 เมนู) · แถบบนของเว็บบนจอแคบใช้โทนเดียวกับแถบเมนู + โลโก้ · แอป SHARK HUB รับ `{ logoUrl, brandColor, navTone }` จาก `/api/mobile/me` → จอล็อกอิน (โลโก้แทน orb ถ้ามี) · ปุ่มหลัก · หัวรายการแชท/ห้องแชท · ไอคอนแท็บ · แคชไว้ในเครื่องเพื่อไม่กะพริบตอนเปิด
 
 ## 6. ข้อมูลและสัญญา
 ```
@@ -66,6 +66,9 @@ UserPreference.navCollapsed Boolean (ใหม่ · ต่อผู้ใช้
 | B5 แอป SHARK HUB รับธีม (OTA ได้ ไม่ต้องบิลด์) | Sonnet | 45 นาที |
 | QC: oracle contrast/สิทธิ์/แคช + ภาพจริง 3 โทน × เดสก์ท็อป/มือถือ | Fable | 1 ชม. |
 รวม ≈ 6–7 ชม. ทำได้หลังปิด P1 ของบอร์ดงาน หรือแทรกเป็น WO แยก (ไม่ชนไฟล์บอร์ดงาน ยกเว้น `AppShell/NavRail`)
+
+## 7b. "แจ้งปัญหาการใช้งาน" (ใหม่ · ตามเจ้าของ 6 ก.ย.)
+ปุ่มมุมขวาบนทุกหน้า → แผ่นเล็ก: ประเภท (ใช้งานไม่ได้ / แสดงผลผิด / ข้อเสนอแนะ) · ข้อความ · แนบภาพ (จับภาพหน้าจอปัจจุบันให้อัตโนมัติ แก้/ขีดได้) · ระบบแนบให้เอง: หน้า/URL · กิจการ · ผู้ใช้ · เบราว์เซอร์/แอป+เวอร์ชัน · เวลา → สร้างการ์ดในบอร์ด "ปัญหาจากผู้ใช้" ของ SHARK (บอร์ดงาน K1.x ใช้จริง) + Telegram เจ้าของ · ผู้แจ้งเห็นสถานะ "รับเรื่อง/แก้แล้ว" ที่ปุ่มเดิม (จุดสี)
 
 ## 8. คำถามให้เจ้าของเคาะ
 1. โทนแถบเมนูปริยายของร้านใหม่ = สว่าง (เสนอ) หรือสีแบรนด์?
